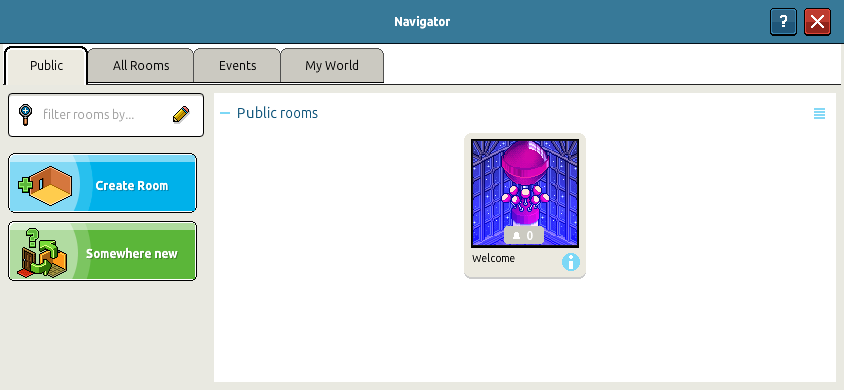
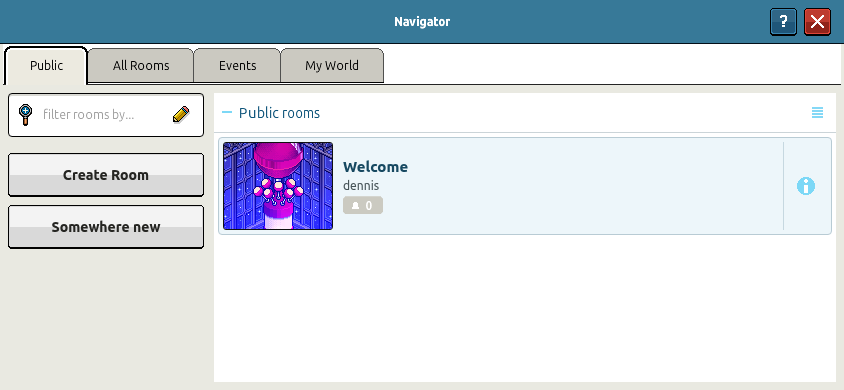
fix(showcase): show the current mobile Navigator

diff --git a/public/showcase/mobile-layout.html b/public/showcase/mobile-layout.html
@@ -27,9 +27,9 @@ dialog{width:fit-content;max-width:98vw;max-height:98dvh;overflow:auto;backgroun
 <figure><figcaption>Rooms / Portrait</figcaption><a class="shot" href="mobile-layout/welcome-portrait.png"><img loading="lazy" src="mobile-layout/welcome-portrait.png" alt="Room view with the avatar, room name and toolbar in portrait" width="393" height="852"></a></figure>
 <figure><figcaption>Rooms / Landscape</figcaption><a class="shot" href="mobile-layout/welcome-landscape.png"><img loading="lazy" src="mobile-layout/welcome-landscape.png" alt="Room view with the avatar, room name and toolbar in landscape" width="844" height="390"></a></figure>
 </div></article>
-<article id="navigator"><h2>Find a room</h2><p>Open the Navigator to browse public rooms, events and your own rooms. In landscape, search and room actions sit beside the results.</p><div class="pair">
-<figure><figcaption>Navigator / Portrait</figcaption><a class="shot" href="mobile-layout/navigator-portrait.png"><img loading="lazy" src="mobile-layout/navigator-portrait.png" alt="Navigator showing the Welcome room and room search in portrait" width="393" height="852"></a></figure>
-<figure><figcaption>Navigator / Landscape</figcaption><a class="shot" href="mobile-layout/navigator-landscape.png"><img loading="lazy" src="mobile-layout/navigator-landscape.png" alt="Navigator showing the Welcome room and room search in landscape" width="844" height="390"></a></figure>
+<article id="navigator"><h2>Find a room</h2><p>Tap a room to enter, or tap its info button to see details. Each row shows the room preview, name, owner and visitor count. In landscape, search and room actions sit beside the results.</p><div class="pair">
+<figure><figcaption>Navigator / Portrait</figcaption><a class="shot" href="mobile-layout/navigator-portrait.png?v=1.1.0"><img loading="lazy" src="mobile-layout/navigator-portrait.png?v=1.1.0" alt="Navigator showing the Welcome room and room search in portrait" width="393" height="852"></a></figure>
+<figure><figcaption>Navigator / Landscape</figcaption><a class="shot" href="mobile-layout/navigator-landscape.png?v=1.1.0"><img loading="lazy" src="mobile-layout/navigator-landscape.png?v=1.1.0" alt="Navigator showing the Welcome room and room search in landscape" width="844" height="390"></a></figure>
 </div></article>
 <article id="chat"><h2>Pick up where you left off</h2><p>Tap the speech bubble to write in the room. Close the composer to get back to the room, then reopen it to finish your draft.</p><div class="pair">
 <figure><figcaption>Chat / Portrait</figcaption><a class="shot" href="mobile-layout/composer-portrait.png"><img loading="lazy" src="mobile-layout/composer-portrait.png" alt="Room chat with its composer and an unsent message in portrait" width="393" height="852"></a></figure>
